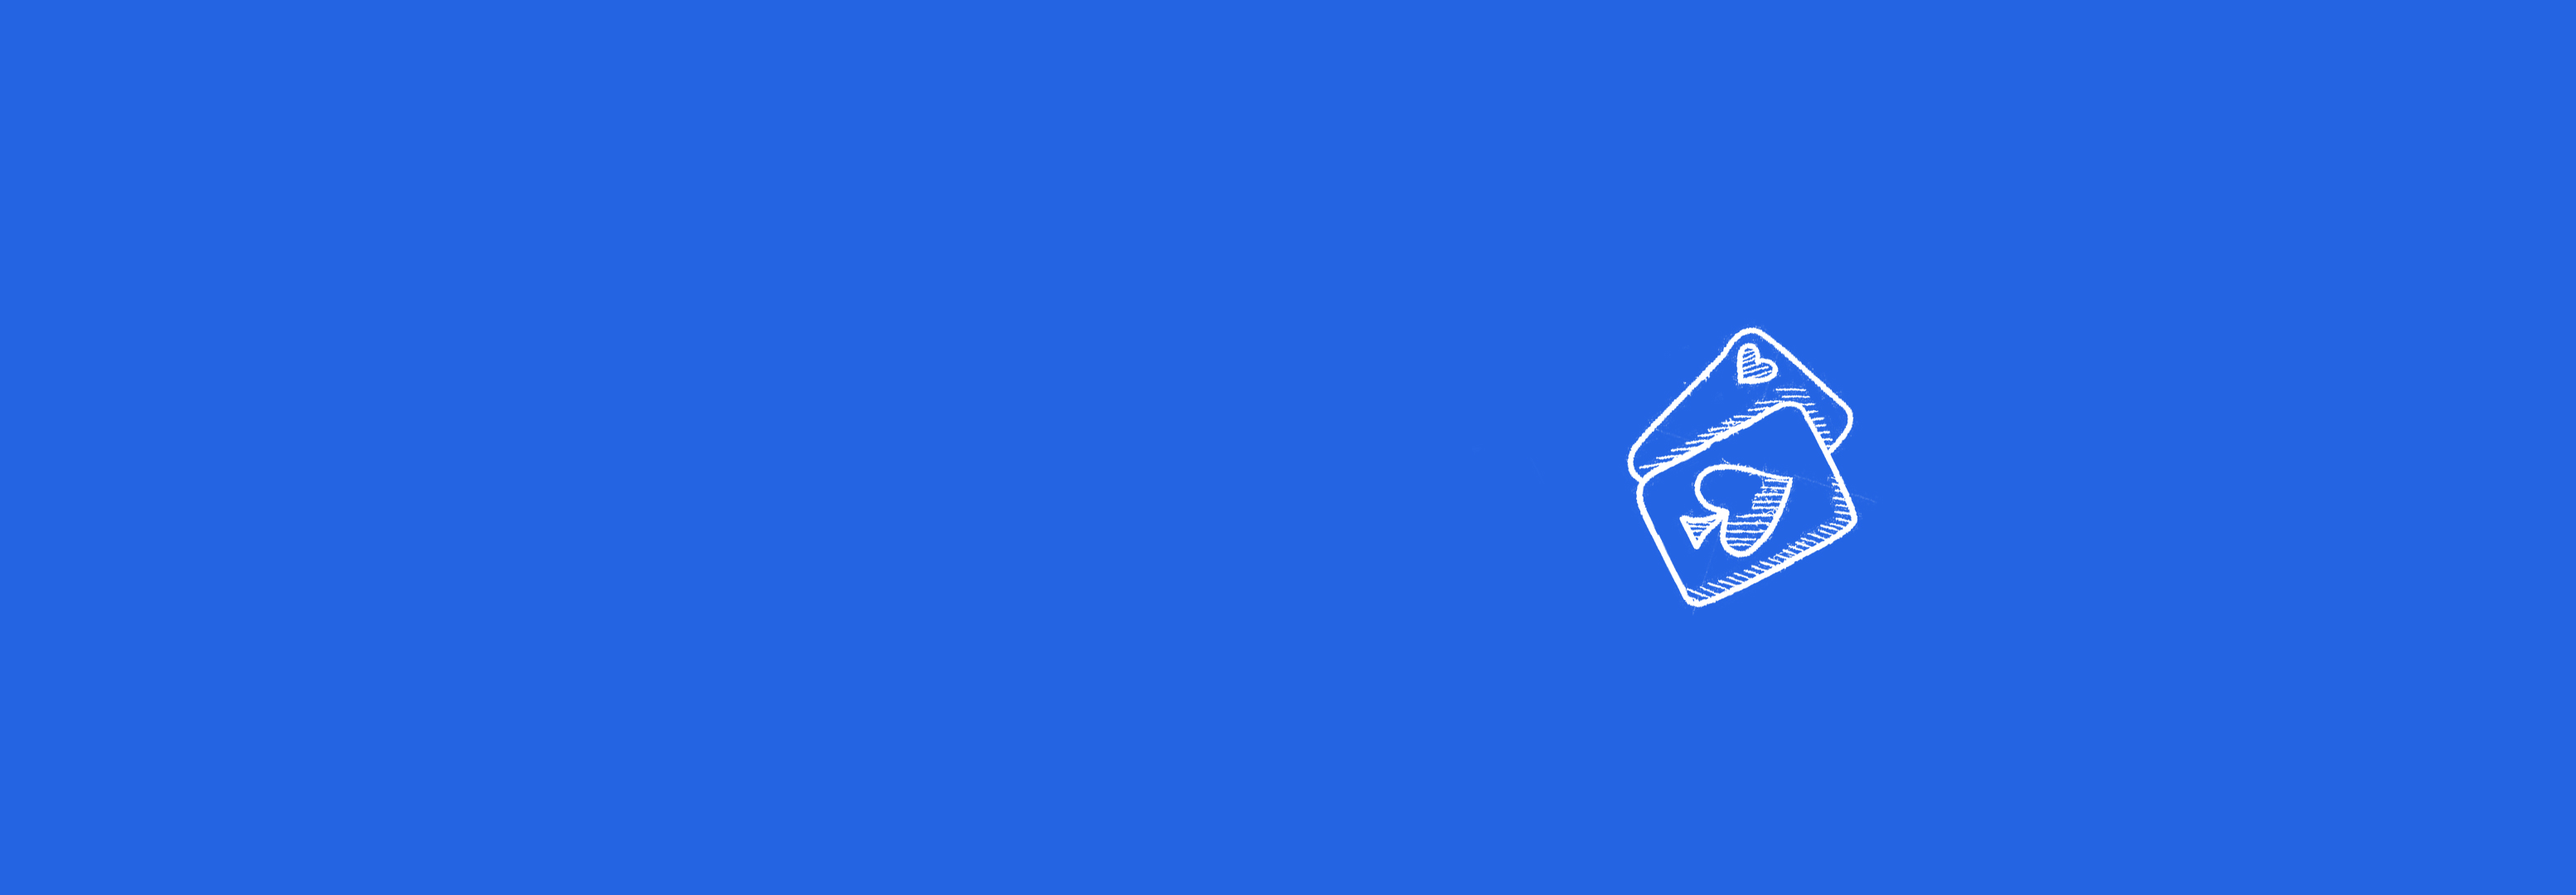
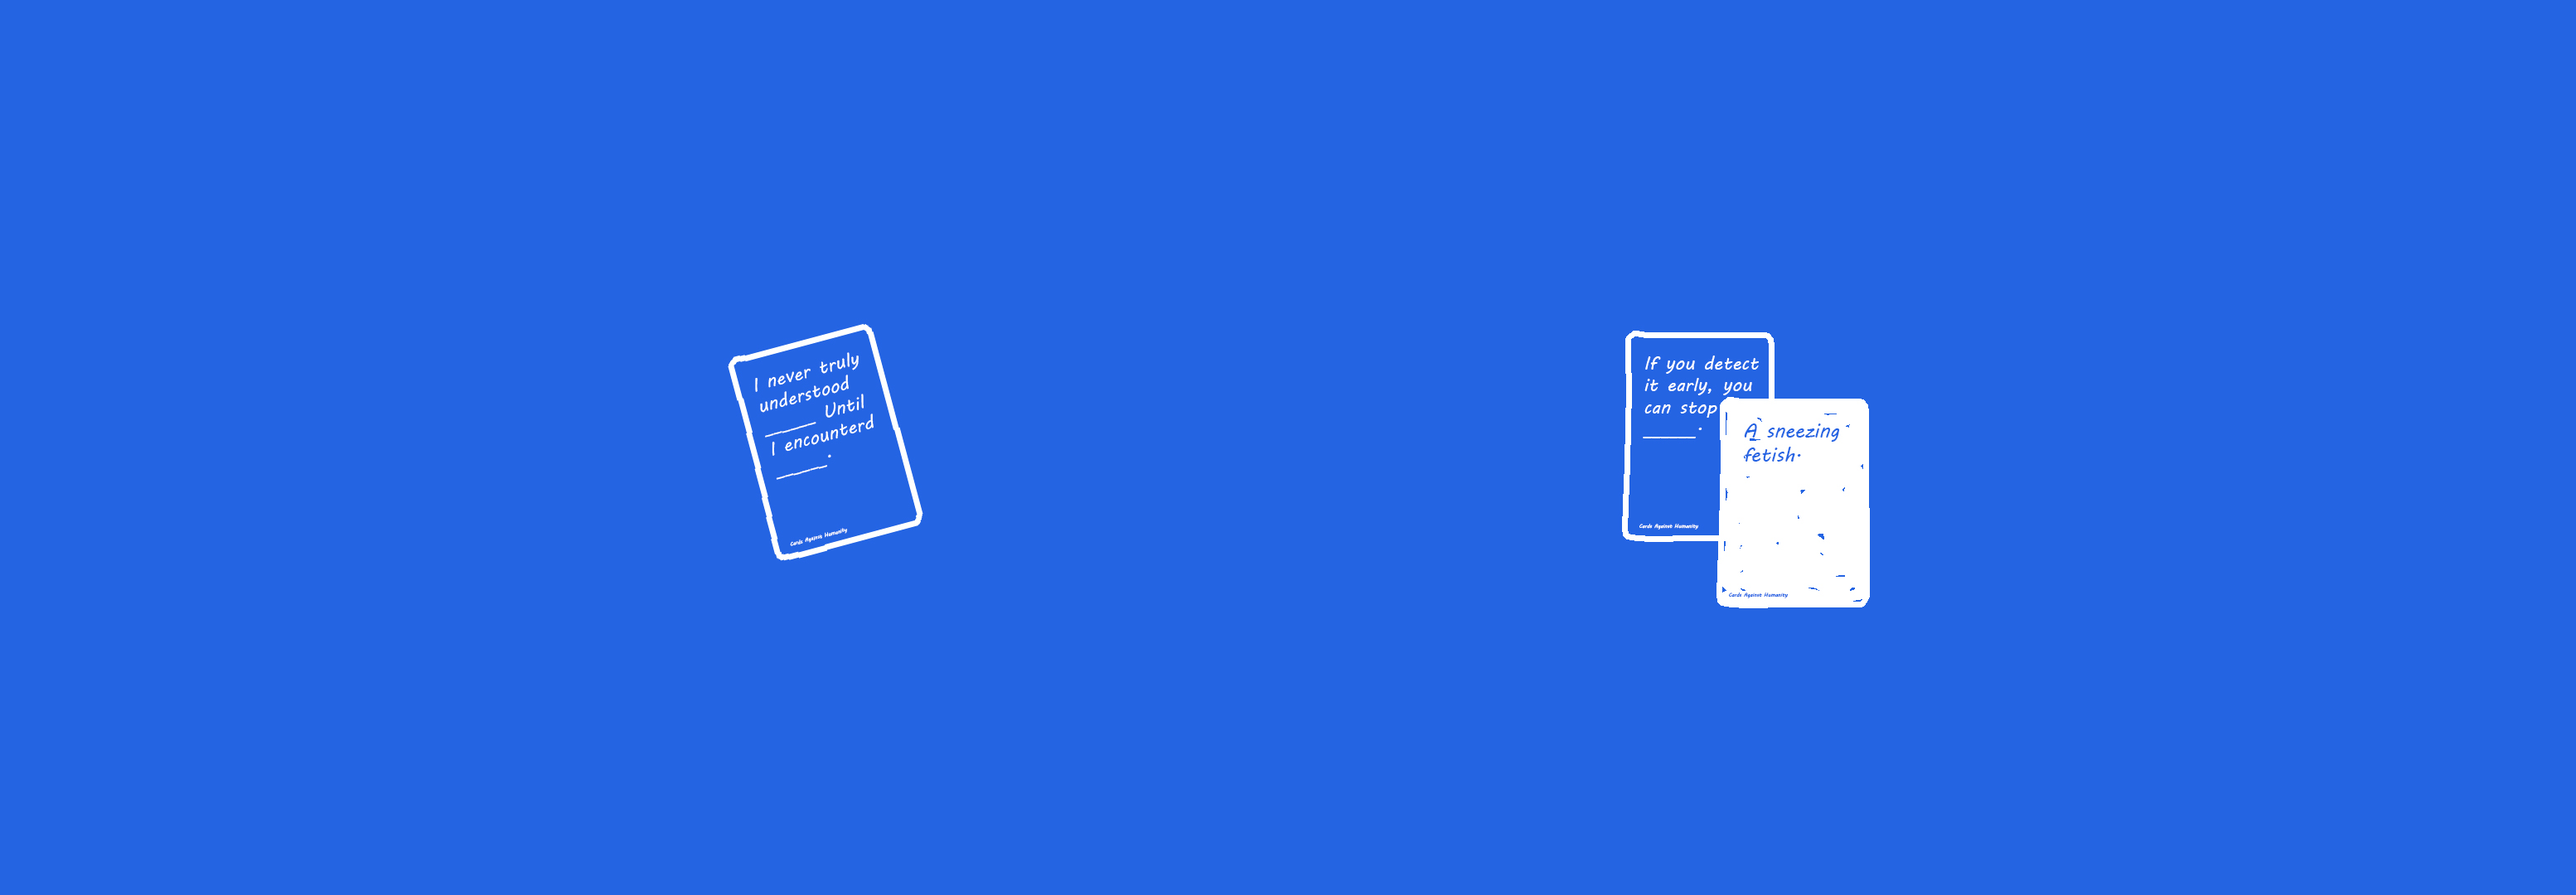
front end v2

Changed region(s): [[0.6242, 0.3667, 0.749, 0.7028], [0.2809, 0.3667, 0.3433, 0.55], [0.2809, 0.5806, 0.3745, 0.6417]]

diff --git a/index.html b/index.html
@@ -77,7 +77,7 @@
 		</div>
 	  </div>
 	  
-	  <!-- Modal DrawJoin -->
+	  <!-- Modal CardsJoin -->
 	  <div class="modal fade" id="CardsJoin" role="dialog">
 		<div class="modal-dialog">
 		  <div class="modal-content">
@@ -116,6 +116,66 @@
 			<div class="modal-header">
 			  <button type="button" class="close" data-dismiss="modal">&times;</button>
 			  <h4 class="modal-title">Cards Against Humanity</h4>
+			</div>
+			<div class="modal-body">
+				<form>
+					<div class="form-group">
+						<label for="usernameJoinDraw">Username</label>
+						<input type="text" class="form-control" id="usernameJoinDraw" placeholder="Enter username">
+					</div>
+					<div class="form-group">
+						<label for="passwordJoinDraw">Password</label>
+						<input type="password" class="form-control" id="usernameJoinDraw" placeholder="Enter password">
+					</div>
+				  
+			</div>
+			<div class="modal-footer">
+				<button id="close" type="submit" class="btn btn-default" data-dismiss="modal">Submit</button>
+				<button id="submit" type="button" class="btn btn-default" data-dismiss="modal">Close</button>
+			</div>
+		  </div>
+		</div>
+	  </div>
+	  
+	  <!-- Modal TexasJoin -->
+	  <div class="modal fade" id="TexasJoin" role="dialog">
+		<div class="modal-dialog">
+		  <div class="modal-content">
+			<div class="modal-header">
+			  <button type="button" class="close" data-dismiss="modal">&times;</button>
+			  <h4 class="modal-title">Texas Hold'em Poker</h4>
+			</div>
+			<div class="modal-body">
+				<form>
+					<div class="form-group">
+						<label for="usernameJoinDraw">Username</label>
+						<input type="text" class="form-control" id="usernameJoinDraw" placeholder="Enter username">
+					</div>
+					<div class="form-group">
+						<label for="roomJoinDraw">Room Number</label>
+						<input type="number" class="form-control" id="roomJoinDraw" placeholder="Enter room number">
+					</div>
+					<div class="form-group">
+						<label for="passwordJoinDraw">Password</label>
+						<input type="password" class="form-control" id="usernameJoinDraw" placeholder="Enter password">
+					</div>
+				  
+			</div>
+			<div class="modal-footer">
+				<button id="close" type="submit" class="btn btn-default" data-dismiss="modal">Submit</button>
+				<button id="submit" type="button" class="btn btn-default" data-dismiss="modal">Close</button>
+			</div>
+		  </div>
+		</div>
+	  </div>
+	  
+	  <!-- Modal TexasCreate -->
+	  <div class="modal fade" id="TexasCreate" role="dialog">
+		<div class="modal-dialog">
+		  <div class="modal-content">
+			<div class="modal-header">
+			  <button type="button" class="close" data-dismiss="modal">&times;</button>
+			  <h4 class="modal-title">Texas Hold'em Poker</h4>
 			</div>
 			<div class="modal-body">
 				<form>
@@ -179,9 +239,45 @@
             </div>
 			
 			<!-- Page2 -->
+            <div class="item" style="height:100vh;background-image:url(&quot;assets/img/Texas Hold'em Poker Background.jpg&quot;);background-position:center;background-size:cover;background-repeat:no-repeat;">
+                <div class="container" data-aos="flip-down" data-aos-duration="900" style="height:35vh;padding-top:10px;padding-bottom:0px;">
+                    <div class="col-md-12" data-bs-hover-animate="swing" style="background-image:url(&quot;assets/img/Texas Hold'em Poker.png&quot;);background-size:contain;background-position:center;height:35vh;background-repeat:no-repeat;"></div>
+                </div>
+                <div class="col-md-12 col-xs-offset-0">
+                    <p class="text-center" data-aos="zoom-in" data-aos-duration="900" id="butons">
+                        <button class="btn btn-default" data-toggle="modal" data-target="#TexasJoin" type="button" data-bs-hover-animate="rubberBand" style="background-color:rgba(252,252,252,0.01);background-image:url(&quot;none&quot;);font-size:20px;color:#fffcfd;border:2px solid #fefbfc;padding:10px 30px;margin:0em;box-shadow:0 20px 200px -10px #333;width:190px;margin-bottom:14px;margin-top:14px;margin-right:14px;margin-left:14px;"><strong><span style="text-decoration: underline;">Join Room</span></strong></button>
+                        <button class="btn btn-default" data-toggle="modal" data-target="#TexasCreate" type="button" data-bs-hover-animate="rubberBand" style="background-color:rgba(252,252,252,0.01);background-image:url(&quot;none&quot;);font-size:20px;color:#fffcfd;border:2px solid #fefbfc;padding:10px 30px;box-shadow:0 20px 200px -10px #333;width:190px;margin-bottom:14px;margin-right:14px;margin-left:14px;margin-top:14px;"><strong><span style="text-decoration: underline;">Create Room</span></strong></button>
+                    </p>
+                </div>
+                <div class="col-md-12" id="Line" style="height:5vh;margin-bottom:17px;margin-top:0px;">
+                    <hr style="height:11px;color:rgb(254,250,250);font-size:14px;">
+                </div>
+				
+				<!-- Footer -->
+                <footer>
+                    <div class="container" style="height:20vh;">
+                        <div class="row">
+                            <div class="col-md-6" style="background-size:contain;background-repeat:no-repeat;">
+                                <p class="text-center" data-aos="fade-right" data-aos-duration="900" style="margin-bottom:25px;margin-top:12px;">
+                                    <a href="https://www.instagram.com"><img src="assets/img/Insta.png" data-bs-hover-animate="jello" style="width:65px;margin-right:10px;margin-left:10px;"></a>
+                                    <a href="https://www.facebook.com"><img src="assets/img/Facebook.png" data-bs-hover-animate="jello" style="width:65px;margin-right:10px;margin-left:10px;"></a>
+                                    <a href="https://www.twitter.com" target="_top"><img src="assets/img/Twitter.png" data-bs-hover-animate="jello" style="width:65px;margin-right:10px;margin-left:10px;"></a>
+                                </p>
+                            </div>
+                            <div class="col-md-6" data-aos="fade-left" data-aos-duration="900">
+                                <p class="text-center" style="color:rgb(252,250,250);font-size:18px;"><strong>Party games online (2018)</strong></p>
+                                <p class="text-center" style="color:rgb(252,250,250);margin-bottom:0px;">Giorgio Joziasse</p>
+                                <p class="text-center" style="color:rgb(252,250,250);">Jano van der Dussen</p>
+                            </div>
+                        </div>
+                    </div>
+                </footer>
+            </div>
+			
+			<!-- Page3 -->
             <div class="item" style="height:100vh;background-image:url(&quot;assets/img/CardsAgainstHumanity Background.jpg&quot;);background-position:center;background-size:cover;background-repeat:no-repeat;">
                 <div class="container" data-aos="flip-down" data-aos-duration="900" style="height:35vh;padding-top:10px;padding-bottom:0px;">
-                    <div class="col-md-12" data-bs-hover-animate="swing" style="background-image:url(&quot;assets/img/Cards against humanity.png&quot;);background-size:contain;background-position:center;height:35vh;background-repeat:no-repeat;"></div>
+                    <div class="col-md-12" data-bs-hover-animate="swing" style="background-image:url(&quot;assets/img/Cards Against Humanity.png&quot;);background-size:contain;background-position:center;height:35vh;background-repeat:no-repeat;"></div>
                 </div>
                 <div class="col-md-12 col-xs-offset-0">
                     <p class="text-center" data-aos="zoom-in" data-aos-duration="900" id="butons">
@@ -220,11 +316,15 @@
             <a class="right carousel-control" href="#carousel-1" role="button" data-slide="next"><i class="glyphicon glyphicon-chevron-right"></i><span class="sr-only">Next</span></a>
         </div>
         <ol class="carousel-indicators">
-            <li data-target="#carousel-1" data-slide-to="0" class="active"></li>
+            <li class="active" data-slide-to="0" data-target="#carousel-1"  ></li>
             <li data-target="#carousel-1" data-slide-to="1"></li>
+			<li data-target="#carousel-1" data-slide-to="2"></li>
         </ol>
     </div>
 
+        </div>
+		
+		
 
     <script src="assets/js/jquery.min.js"></script>
     <script src="assets/bootstrap/js/bootstrap.min.js"></script>
